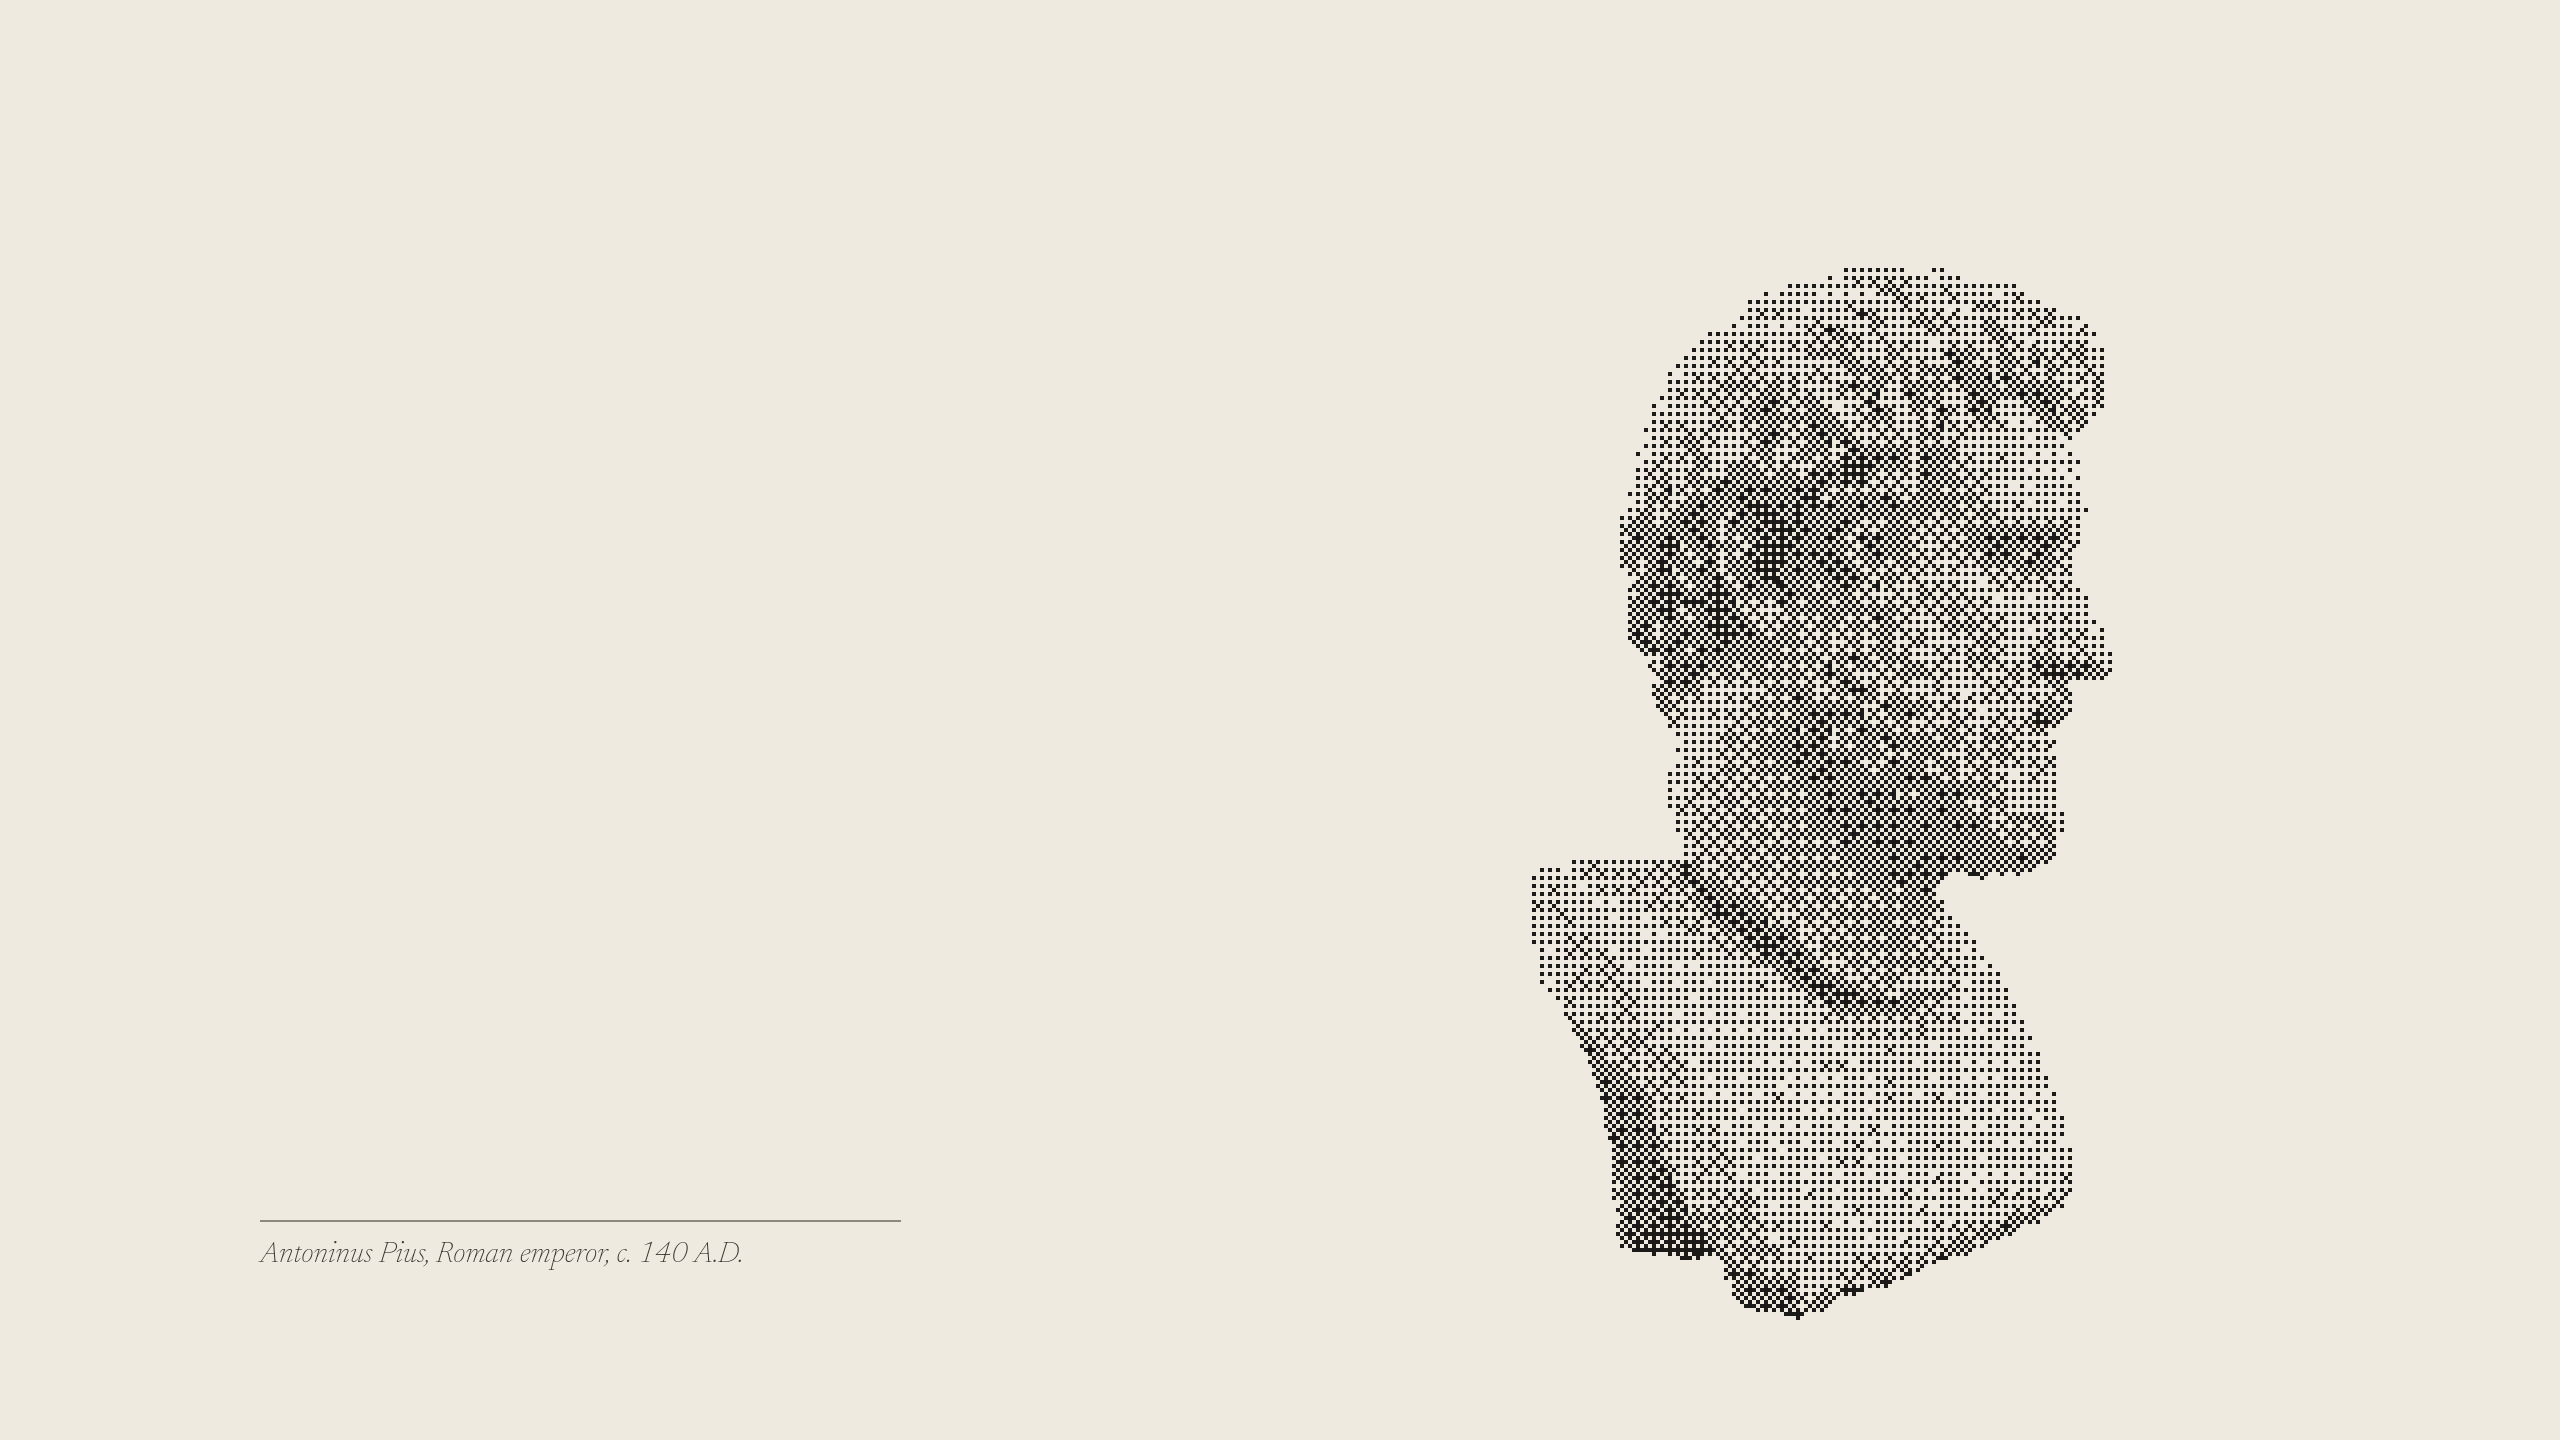
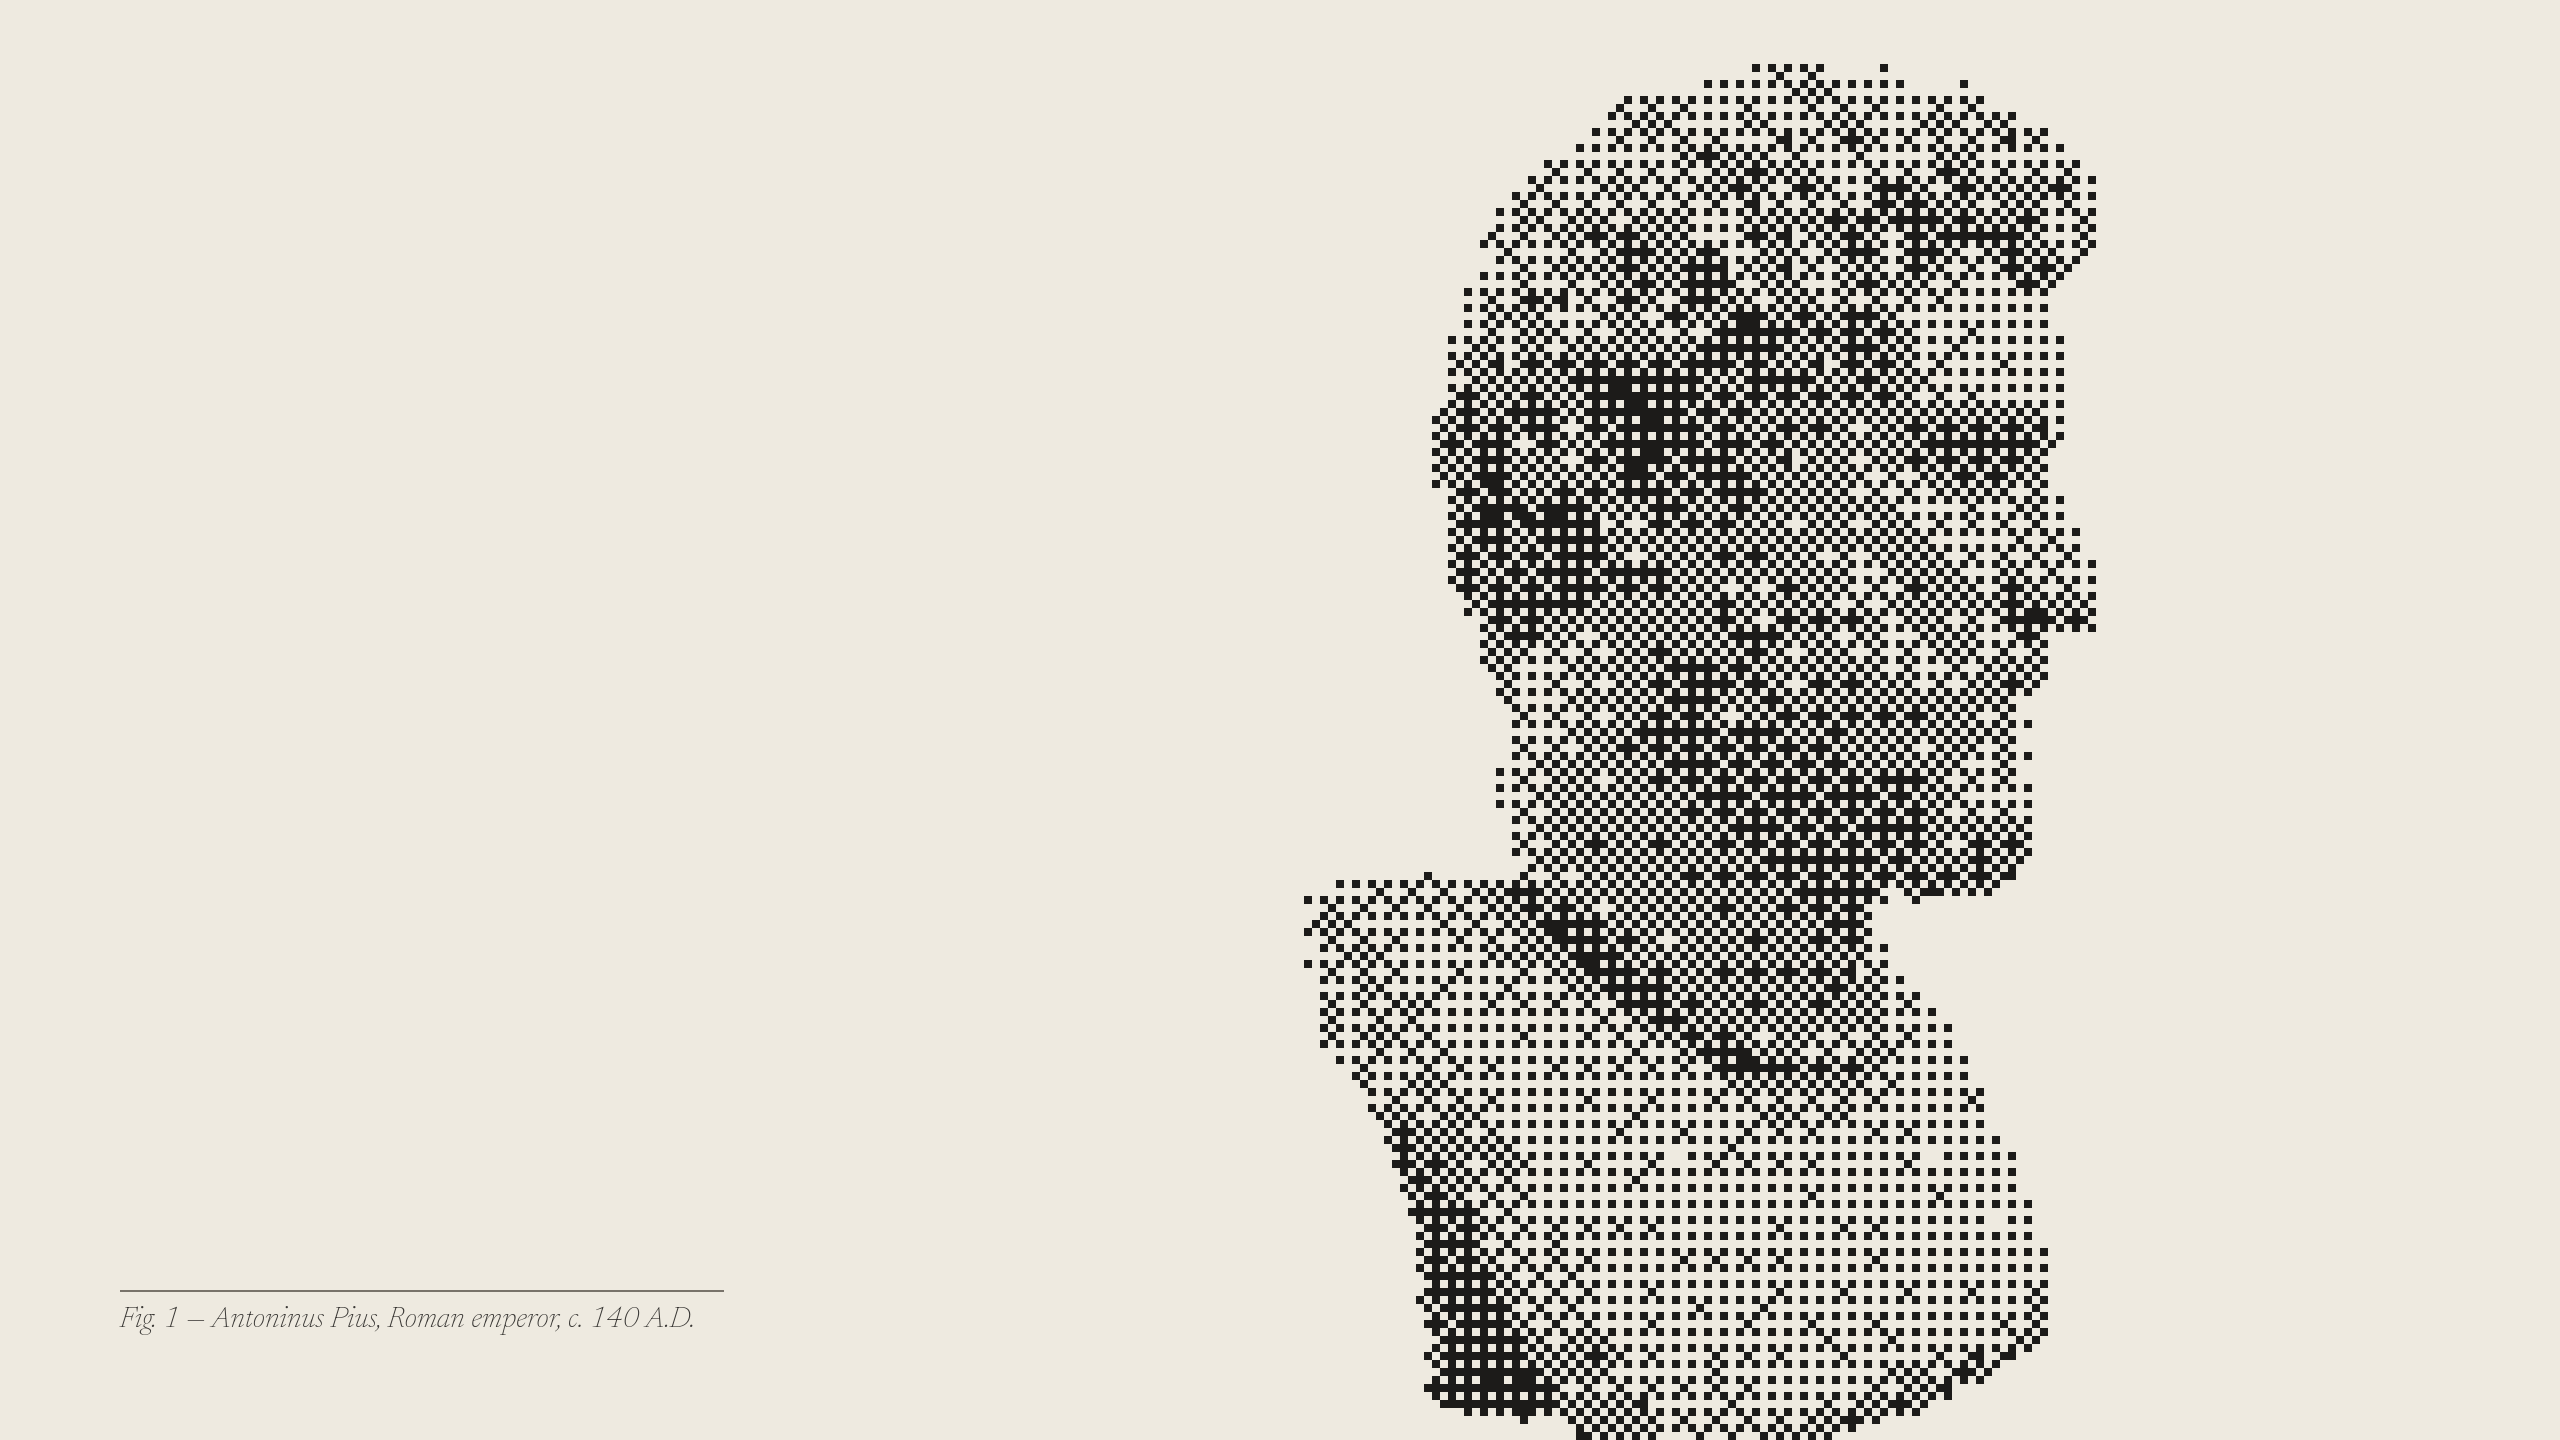
v3: printing-ink palette, oxblood accent, wallpaper collection, type covers
- Every code color re-inked to >=4.5:1 on paper and spaced apart; tools/check-palette.py
- Oxblood accent and borders replace blue
- Art collection (Antoninus, Constantine, Laocoon, Goltzius Hercules, Durand Apollo) built
  from wallpapers.list with pixel/halftone/grain/engraving textures
- Blackletter masthead and Abril Fatface cover; blackletter lock-screen wordmark
- try-shadow.sh presets

diff --git a/tools/check-palette.py b/tools/check-palette.py
@@ -1,0 +1,30 @@
+#!/usr/bin/env python3
+"""Score colors.toml: WCAG contrast of each text color against the background,
+and how distinct the code colors are from each other (CIE Lab distance).
+Usage: tools/check-palette.py [colors.toml]"""
+import sys, tomllib, itertools, math
+
+def rgb(h): h = h.lstrip('#'); return [int(h[i:i+2], 16) / 255 for i in (0, 2, 4)]
+def lin(c): return c / 12.92 if c <= 0.04045 else ((c + 0.055) / 1.055) ** 2.4
+def lum(h): r, g, b = map(lin, rgb(h)); return 0.2126*r + 0.7152*g + 0.0722*b
+def contrast(a, b): la, lb = sorted((lum(a), lum(b)), reverse=True); return (la + 0.05) / (lb + 0.05)
+def lab(h):
+    r, g, b = map(lin, rgb(h))
+    x, y, z = (r*.4124+g*.3576+b*.1805)/.95047, r*.2126+g*.7152+b*.0722, (r*.0193+g*.1192+b*.9505)/1.08883
+    f = lambda t: t ** (1/3) if t > 0.008856 else 7.787*t + 16/116
+    return 116*f(y)-16, 500*(f(x)-f(y)), 200*(f(y)-f(z))
+
+c = tomllib.load(open(sys.argv[1] if len(sys.argv) > 1 else 'colors.toml', 'rb'))
+bg = c['background']
+text = ['foreground', 'light_foreground', 'dark_foreground', 'accent', 'red', 'orange', 'yellow',
+        'green', 'cyan', 'blue', 'magenta', 'brown', 'bright_red', 'bright_yellow', 'bright_green',
+        'bright_cyan', 'bright_blue', 'bright_magenta', 'muted']
+print(f'Contrast vs background {bg}  (4.5 = comfortable text, 3.0 = large text/UI only)')
+for k in text:
+    if k in c:
+        r = contrast(c[k], bg)
+        print(f'  {k:18} {c[k]}  {r:5.2f}  {"ok" if r >= 4.5 else "ui-only" if r >= 3 else "FAIL"}')
+hues = ['red', 'orange', 'yellow', 'green', 'cyan', 'blue', 'magenta']
+pairs = sorted((math.dist(lab(c[a]), lab(c[b])), a, b) for a, b in itertools.combinations(hues, 2))
+print('Closest code-color pairs (Lab distance; under ~20 is easy to confuse):')
+for d, a, b in pairs[:4]: print(f'  {a}/{b}: {d:.0f}')

diff --git a/CLAUDE.md b/CLAUDE.md
@@ -22,23 +22,35 @@ deep-blue accent, thin gray rules, editorial typography.
   regenerated from `colors.toml`. So no `neovim.lua`/`vscode.json`; Neovim uses the
   generated aether palette.
 - Palette: bone paper `#EEEAE0` (v1 `#FBF9F4` was "too white, aggressive"), warm ink `#1C1B19`,
-  true black `#000000` for emphasis, accent `#1A4F8B`, rules `#8E897F`.
+  true black for emphasis. v3: owner felt blue didn't fit -> accent **oxblood `#7E2B22`**, and a
+  full "printing ink" set for code colors. Owner found green etc. hard to read: rule is every text
+  color >= 4.5:1 on paper (code colors ~5.5-6) and hue pairs >= 30 apart in Lab;
+  `tools/check-palette.py` enforces both. Comments (`muted`) deliberately ~3.9.
   ANSI colors are dark, desaturated "printing inks" so terminals stay legible.
-- Borders: focused window = accent blue, others faint gray. Owner wants borders "lighter but
-  defined by color" + rounded corners. Shape (1px border, rounding 10, soft shadow) lives in the
-  owner's `~/.config/hypr/looknfeel.lua` (themes can't set it); README recommends it.
+- Borders: focused window = oxblood hairline, others faint gray. Owner likes this shape. Shape (1px border, rounding 10, directional shadow lit from above: offset -5,9,
+  deeper on focused window) lives in the owner's `~/.config/hypr/looknfeel.lua` (themes can't set it); README recommends it.
 - `unlock.png` = Omarchy logo recolored to ink. `icons.theme` = `Yaru` (neutral).
-- Wallpapers are generated by scripts in `tools/`, so they're original and reproducible.
-  Owner disliked the masthead + slogan (removed). Direction: pixel-dithered classical
-  statues ("halftone" ink on paper) and a minimal `omarchy` wordmark in Newsreader italic.
-  Sources must be CC0/public domain; credit in `tools/sources/CREDITS.md`. Don't commit screenshots with personal content as `preview.png`.
-
+- Inspirations: newspapers (NYT), Apple (calm, intuitive), magazine covers (Rolling Stone).
+- Wallpapers = a *collection*: classical art re-printed in ink on bone, filling the screen,
+  each a different print texture (pixel / halftone / grain / engraving), shared "Fig. N" caption
+  plate. Built by `tools/make-wallpapers.sh` from `tools/wallpapers.list` (one line per image:
+  crop, texture, dot size, brightness). Owner wanted bigger pixels and fuller frames.
+  Type covers (`tools/make-type.sh`): blackletter masthead + Abril Fatface "omarchy." cover.
+  Owner disliked the first masthead + slogan; wants bold, designed typography.
+  Sources must be CC0/public domain; verify captions against museum metadata; credit in
+  `tools/sources/CREDITS.md`. Wikimedia rate-limits: send a User-Agent, pause between downloads.
+- Lock screen `unlock.png` = blackletter "Omarchy" in ink.
+- Fonts (owner's machine, not shippable in a theme): mono BlexMono Nerd Font (IBM Plex Mono),
+  sans Libre Franklin, serif Newsreader (via ~/.config/fontconfig/conf.d/60-broadsheet.conf;
+  Omarchy's /etc/fonts/conf.d/50-omarchy.conf *assigns* generics, so use prepend_first matches),
+  GTK font via gsettings. NYT's fonts are proprietary; use free cousins only.
 ## Progress
 - [x] v1: colors, masthead wallpaper, lock logo, applied on desktop (2026-10-13)
 - [x] v2: bone palette, blue hairline borders, rounded corners/shadow, statue + wordmark wallpapers
-- [ ] Keep tuning palette on real screen
-- [ ] Dark variant (`broadsheet-dark`?) once light is dialed in; Aelius Verus dark statue ready
-  via `tools/make-statue.sh tools/sources/aelius-verus.jpg out.png dark`
+- [x] v3: ink palette (oxblood accent), directional shadows, fonts, 5 art + 2 type wallpapers
+- [ ] Owner to react to v3 (fonts especially; they hadn't looked at the specimen)
+- [ ] Dark variant (`broadsheet-dark`?) once light is dialed in; needs a dark mode in make-wallpapers.sh
+  (ink paper, bone dots); Aelius Verus source is ready
 - [ ] More statues / wallpapers
 - [ ] Fonts: owner likes NYT fonts (proprietary) -> free lookalikes. Installed 2026-10-13:
   Newsreader, Libre Franklin, Courier Prime (~/.local/share/fonts/broadsheet), IBM Plex +

diff --git a/README.md b/README.md
@@ -1,7 +1,9 @@
 # Broadsheet
 
 An [Omarchy](https://omarchy.org) theme that reads like a good newspaper, with a little Apple calm:
-bone-colored paper, warm black ink, thin gray rules and one deep-blue accent.
+bone-colored paper, warm black ink, thin rules and an oxblood accent. Every code color is a
+printing ink (crimson, vermilion, ochre, moss, verdigris, Prussian slate, plum) darkened until it
+reads comfortably on paper (WCAG 4.5:1+; check with `tools/check-palette.py`).
 
 ![Broadsheet preview](preview.png)
 
@@ -16,33 +18,39 @@ omarchy theme install https://github.com/wstough/omarchy-broadsheet-theme
 | File | Purpose |
 |------|---------|
 | `colors.toml` | The palette. Omarchy generates terminal, bar, Hyprland borders, btop, Neovim, VS Code and more from it. |
-| `backgrounds/` | Wallpapers (cycle with `omarchy theme bg next`). |
+| `backgrounds/` | Wallpapers (cycle with `omarchy theme bg next`): classical sculpture and engravings printed as halftone, pixel and grain, plus two typographic covers. |
 | `chromium.theme` | Browser toolbar color (R,G,B). |
 | `icons.theme` | GTK icon set name. |
 | `unlock.png` | Logo on the lock screen. |
 | `preview.png` | Thumbnail in the theme picker. |
-| `tools/` | Scripts that generate the wallpapers. |
+| `tools/` | `make-wallpapers.sh` + `wallpapers.list` (art), `make-type.sh` (type covers), `check-palette.py`, `try-shadow.sh`. |
 
-## Recommended window style
+## Recommended window style and fonts
 
-Themes can't change window shape, so add this to `~/.config/hypr/looknfeel.lua` for the
-intended look (rounded corners, hairline border, soft shadow):
+Themes can't change window shape or fonts, so for the intended look add this to
+`~/.config/hypr/looknfeel.lua` (rounded corners, hairline border, a soft shadow lit from above):
 
 ```lua
 hl.config({
   general = { border_size = 1 },
   decoration = {
     rounding = 10,
-    shadow = { enabled = true, range = 18, render_power = 3, color = "rgba(00000022)" },
+    shadow = { enabled = true, range = 28, render_power = 2, offset = { -5, 9 },
+               color = "rgba(1c1b1933)", color_inactive = "rgba(1c1b1918)" },
   },
 })
 ```
 
+Try other shadows live with `tools/try-shadow.sh airy|soft|crisp|paper|off`.
+
+Fonts: `omarchy font set "BlexMono Nerd Font"` (IBM Plex Mono; `pacman -S ttf-ibmplex-mono-nerd`),
+with Libre Franklin for apps and Newsreader for serif text.
+
 ## Credits
 
 Inspired by newspaper design in general. It doesn't use any newspaper's fonts, logos or artwork.
-Statue wallpapers are dithered from CC0 photos on Wikimedia Commons (see `tools/sources/CREDITS.md`).
-Type is Newsreader (SIL Open Font License).
+Art wallpapers are re-printed from public-domain/CC0 images on Wikimedia Commons (see
+`tools/sources/CREDITS.md`). Type: Newsreader, Libre Franklin, Abril Fatface, UnifrakturMaguntia (all OFL).
 
 ## License
 

diff --git a/tools/sources/CREDITS.md b/tools/sources/CREDITS.md
@@ -1,8 +1,14 @@
 # Image sources
 
-All from Wikimedia Commons, free to reuse.
+All from Wikimedia Commons, public domain or CC0. Wallpapers are dithered/re-inked derivatives.
 
-| File | Subject | Commons page | License |
-|------|---------|--------------|---------|
+| File | Work | Commons page | License |
+|------|------|--------------|---------|
 | antoninus-pius.jpg | Antoninus Pius (Farnese), Museo Archeologico Nazionale di Napoli, inv. 6078 | https://commons.wikimedia.org/wiki/File:MANNapoli_6078_Antoninus_Pius_Farnese.jpg | CC0 |
 | aelius-verus.jpg | Aelius Verus, Ancient Agora Museum, Athens, S335 | https://commons.wikimedia.org/wiki/File:Aelius_Verus_Ancient_Agora_Museum_S335_Athens.jpg | CC0 |
+| constantine.jpg | Bronze colossus of Constantine, Capitoline Museums (photo: D. Benjamin Miller) | https://commons.wikimedia.org/wiki/File:Colossal_head_of_Constantine_(M.C._inv._1072),_August_24,_2021.jpg | Public domain |
+| laocoon.jpg | Laocoön and His Sons, Vatican Museums | https://commons.wikimedia.org/wiki/File:Laoco%C3%B6n_and_his_sons_group.jpg | CC0 |
+| hercules-goltzius.jpg | Farnese Hercules, engraving by Hendrick Goltzius, c. 1592 (The Met) | https://commons.wikimedia.org/wiki/File:Farnese_Hercules_MET_DP102198.jpg | CC0 |
+| apollo-belvedere-engraving.jpg | Apollo Belvedere, engraving by Asher B. Durand, 1825 (The Met) | https://commons.wikimedia.org/wiki/File:Apollo_Belvedere_MET_DP837867.jpg | CC0 |
+
+Fonts used in the images (SIL Open Font License): Newsreader, Libre Franklin, Abril Fatface, UnifrakturMaguntia.
